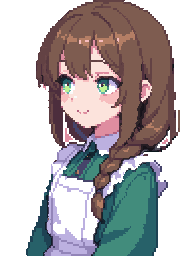
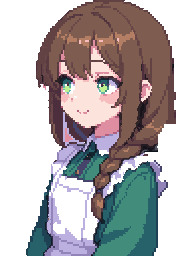
Take the white rim and stray bits off Mira's portrait; the tool can take off such rims
pixel-clean.py --rim removes thin white left open to the background, a
small white patch stranded near the edge, hair-thin lines standing
beside the figure, and scraps that have come loose. Mira's portrait was
then retouched by hand where the model had drawn a white wedge past the
hair. The art spec records what was liked in the second round.

Claude-Session: https://claude.ai/code/session_01J7Px4veYTFr5axCikLuJQ2

Changed region(s): [[0.8125, 0.4375, 0.9375, 0.5938], [0.3125, 0.4375, 0.4375, 0.5625]]

diff --git a/game/tools/pixel-clean.py b/game/tools/pixel-clean.py
@@ -11,6 +11,13 @@ What it does, in order:
      short dark line is a mouth, a nose or a brow
   4. a single stray pixel alone in a flat field takes that field's colour; in a busy place (an eye) it stays
   5. dark lines inside the figure take a deep shade of the colour beside them; only the outer edge stays ink
+
+  python3 tools/pixel-clean.py --rim art/mira/portrait.png               (only takes off a white rim, see below)
+
+--rim is for a picture whose cut-out left a white line round the figure (some models draw a white edge like a
+sticker's, and it stays behind when the background goes). It takes away white that is thin and open to the
+background, small white patches stranded at the edge, and any scrap that has come loose from the figure. Broad
+white that belongs to the figure, a white apron say, is left alone. It does none of the numbered steps above.
 It needs Pillow and nothing else."""
 import sys, os
 from collections import Counter
@@ -117,10 +124,87 @@ def clean(im):
             if out[y][x] is not None: px[x, y] = out[y][x] + (255,)
     return res
 
+def unrim(im):
+    im = im.convert('RGBA'); W, H = im.size; px = im.load()
+    solid = [[px[x, y][3] >= 128 for x in range(W)] for y in range(H)]
+    white = [[solid[y][x] and min(px[x, y][:3]) >= 246 for x in range(W)] for y in range(H)]
+    inside = lambda x, y: 0 <= x < W and 0 <= y < H
+    # white that is at least three pixels thick every way is body, not rim: wear the white down by one, grow it back
+    worn = [[white[y][x] and all(inside(x + dx, y + dy) and white[y + dy][x + dx] for dx, dy in N8) for x in range(W)] for y in range(H)]
+    broad = [[white[y][x] and (worn[y][x] or any(inside(x + dx, y + dy) and worn[y + dy][x + dx] for dx, dy in N8)) for x in range(W)] for y in range(H)]
+    # thin white open to the background goes, and so does whatever thin white hangs on to it
+    gone = set(); todo = [(x, y) for y in range(H) for x in range(W) if white[y][x] and not broad[y][x] and any(not inside(x + dx, y + dy) or not solid[y + dy][x + dx] for dx, dy in N8)]
+    while todo:
+        x, y = todo.pop()
+        if (x, y) in gone: continue
+        gone.add((x, y))
+        for dx, dy in N8:
+            nx, ny = x + dx, y + dy
+            if inside(nx, ny) and white[ny][nx] and not broad[ny][nx] and (nx, ny) not in gone: todo.append((nx, ny))
+    paint = {}
+    for _ in range(3):
+        for x, y in sorted(gone):
+            if (x, y) in paint: continue
+            near = Counter(paint.get((x + dx, y + dy)) or px[x + dx, y + dy][:3] for dx, dy in N8 if inside(x + dx, y + dy) and solid[y + dy][x + dx] and ((x + dx, y + dy) not in gone or (x + dx, y + dy) in paint))
+            if sum(near.values()) >= 5: paint[(x, y)] = near.most_common(1)[0][0]
+    for x, y in gone:
+        white[y][x] = False
+        if (x, y) not in paint: solid[y][x] = False
+    # a small patch of white left at the edge is background seen through a gap
+    seen = set()
+    for y in range(H):
+        for x in range(W):
+            if not white[y][x] or (x, y) in seen: continue
+            comp = [(x, y)]; seen.add((x, y)); i = 0; open_ = False
+            while i < len(comp):
+                cx, cy = comp[i]; i += 1
+                if not open_ and any(not inside(cx + dx, cy + dy) or not solid[cy + dy][cx + dx] for dx in range(-3, 4) for dy in range(-3, 4)): open_ = True      # the background is within three pixels
+                for dx, dy in N4:
+                    nx, ny = cx + dx, cy + dy
+                    if inside(nx, ny) and white[ny][nx] and (nx, ny) not in seen: seen.add((nx, ny)); comp.append((nx, ny))
+            if open_ and len(comp) < 70:
+                for cx, cy in comp: solid[cy][cx] = False; white[cy][cx] = False
+    # a hair-thin line standing beside the figure (one pixel wide, eight or more long, background on both sides)
+    for horiz in (False, True):
+        for a in range(W if not horiz else H):
+            run = []
+            for b in range((H if not horiz else W) + 1):
+                x, y = (a, b) if not horiz else (b, a); ok = False
+                if b < (H if not horiz else W) and solid[y][x]:
+                    s1 = (x - 1, y) if not horiz else (x, y - 1); s2 = (x + 1, y) if not horiz else (x, y + 1)
+                    ok = all(not inside(*q) or not solid[q[1]][q[0]] for q in (s1, s2))
+                if ok: run.append((x, y))
+                else:
+                    if len(run) >= 8:
+                        for qx, qy in run: solid[qy][qx] = False
+                    run = []
+    # whatever has come loose from the figure goes too
+    best = []; seen = set()
+    for y in range(H):
+        for x in range(W):
+            if not solid[y][x] or (x, y) in seen: continue
+            comp = [(x, y)]; seen.add((x, y)); i = 0
+            while i < len(comp):
+                cx, cy = comp[i]; i += 1
+                for dx, dy in N8:
+                    nx, ny = cx + dx, cy + dy
+                    if inside(nx, ny) and solid[ny][nx] and (nx, ny) not in seen: seen.add((nx, ny)); comp.append((nx, ny))
+            if len(comp) > len(best): best = comp
+    keep = set(best); res = Image.new('RGBA', (W, H), (0, 0, 0, 0)); out = res.load(); n = 0
+    for y in range(H):
+        for x in range(W):
+            if (x, y) in keep: out[x, y] = (paint.get((x, y)) or px[x, y][:3]) + (255,)
+            elif px[x, y][3] >= 128: n += 1
+    return res, n
+
 if __name__ == '__main__':
-    args = sys.argv[1:]; outdir = None
+    args = sys.argv[1:]; outdir = None; rim = False
+    if args[:1] == ['--rim']: rim = True; args = args[1:]
     if args[:1] == ['--out']: outdir = args[1]; args = args[2:]
     if not args: sys.exit(__doc__)
     for f in args:
+        if rim:
+            res, n = unrim(Image.open(f)); dst = os.path.join(outdir, os.path.basename(os.path.dirname(os.path.abspath(f))) + '-' + os.path.basename(f)) if outdir else f
+            res.save(dst); print(dst, n, 'pixels of rim and scraps taken off'); continue
         res = clean(Image.open(f)); dst = os.path.join(outdir, os.path.basename(os.path.dirname(os.path.abspath(f))) + '-' + os.path.basename(f)) if outdir else f
         res.save(dst); print(dst, len(set(res.getdata())) - 1, 'colours')

diff --git a/game/art/README.md b/game/art/README.md
@@ -157,6 +157,11 @@ game/art/manifest.js                 登記誰有圖
   2. 不要開高解析修復，它會加回細紋和雜點。
   3. 顏色收斂到 32 色左右，同一種材質要留住三階，不要被壓成一階。
   4. 畫完照上面的方式縮到 192 × 256、跑清理程式、放大檢查臉。
+- **使用者看過第二版的回饋**（之後重畫或新增立繪都照這個方向）：
+  - 蜜拉和阿燼這兩張的比例是滿意的，照這個頭身比和取景。
+  - 最喜歡阿燼那張：**表情明顯帶出個性**（不耐煩、有點得意的笑）。每個角色都要有符合個性的表情，不要都是同一種溫和的微笑。柯爾是嘴硬心軟的老造船匠，蜜拉溫柔沉靜，阿燼急躁愛算時間，小霧好奇，莫葛陰沉。
+  - 蜜拉那張**去背沒去乾淨**：頭髮旁邊留了白色的殘塊和一條細線。原因是模型替人物畫了一圈像貼紙的白邊，去背後留了下來。已經用程式修掉。
+- 去背的注意事項：提示詞加上 `no white outline, no sticker border`；去背後把圖放在洋紅或深色底上檢查邊緣；有白邊就跑 `python3 game/tools/pixel-clean.py --rim game/art/<id>/portrait.png`。這個選項會吃掉邊緣的純白細線，白頭髮的角色（小霧）不要用。
 - 使用者給過一張參考圖當作**畫風**的方向（粉紅頭髮角色的臉部特寫，大顆像素、細緻的高光）。只參考那種精緻度和上色方式，不要照著畫那個角色。
 - 登記：在 `manifest.js` 該角色那一行加上 `portrait: true`。只有立繪、沒有小人的角色（莫葛說話時的代號是 `mog`）另外加一行 `mog: { portrait: true, anims: [] },`。
 - 要做的：`kol` 柯爾、`mira` 蜜拉、`jin` 阿燼、`wu` 小霧、`mog` 莫葛。
